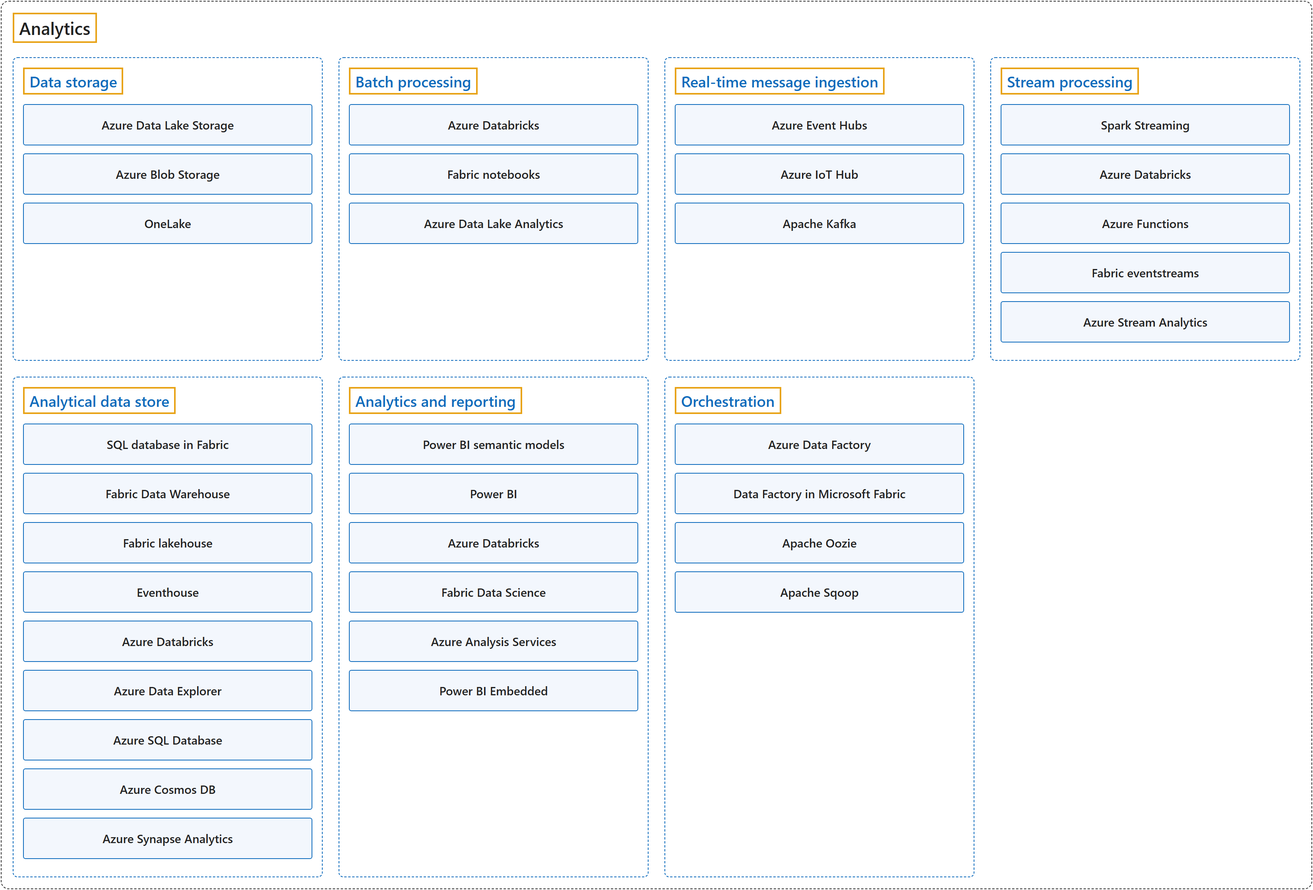
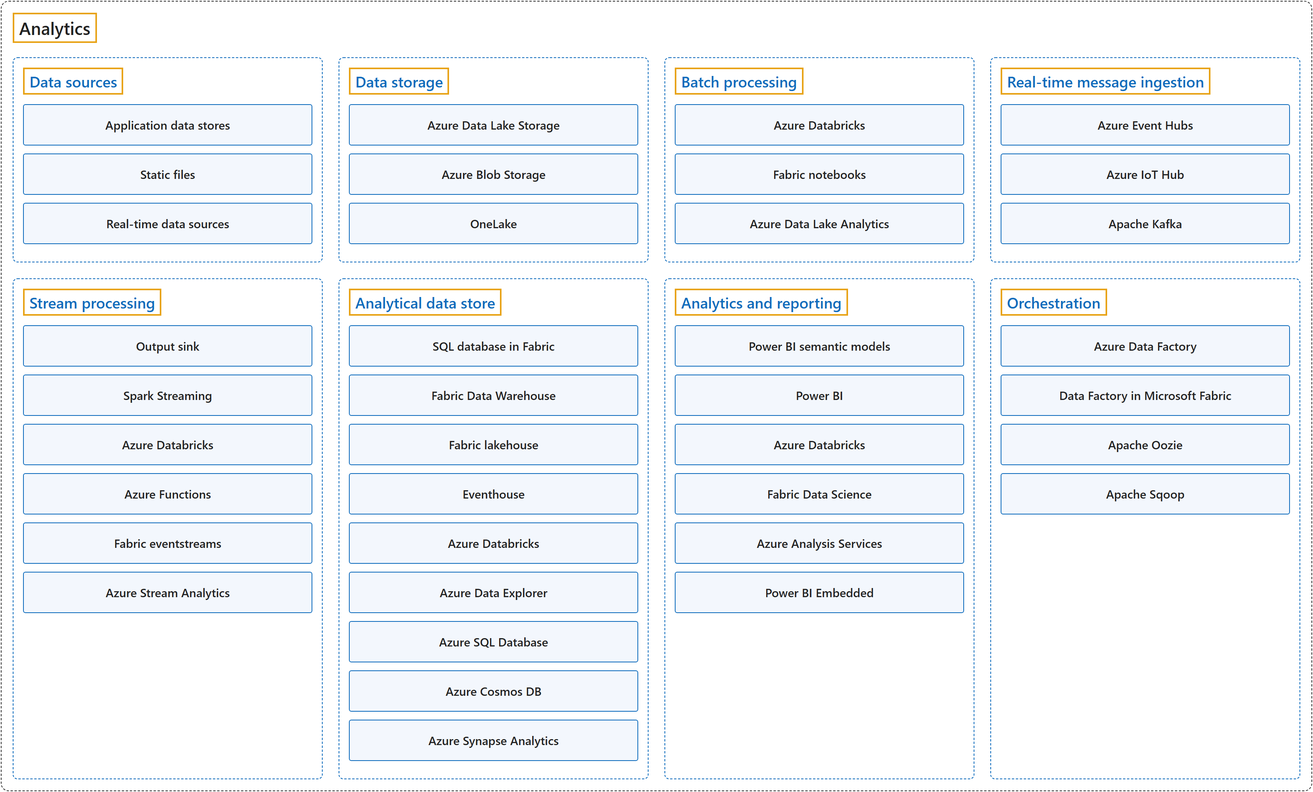
feat(cloud): CST8916 Week 10 Data Streaming; 10.4 Azure Event Hubs gets its core components (Producer applications, Namespace, Event hub / Kafka topic, Partitions, Consumer applications, Consumer group) and Capture; 11.1 Data sources added from Big data architectures list item 1 (Analytics renumbere

diff --git a/figures/cloud/azure/integration/events.html b/figures/cloud/azure/integration/events.html
@@ -5,21 +5,47 @@
   .frame { display: inline-block; margin: 2px; padding: 14px 14px 14px; border: 1.5px dashed #333; border-radius: 10px; }
   .title { display: inline-block; border: 2px solid #e8a317; padding: 2px 6px; font-size: 22px; font-weight: 600; color: #222; margin-bottom: 18px; }
   .row { display: flex; gap: 14px; align-items: stretch; }
-  .frame > .col { width: 330px; gap: 0; }
   .col { display: flex; flex-direction: column; gap: 14px; }
   .col .group { flex: 1 0 auto; }
-  .group { min-width: 330px; border: 1.5px dashed #0f6cbd; border-radius: 6px; padding: 12px; box-sizing: border-box; }
+  .group { width: 330px; border: 1.5px dashed #0f6cbd; border-radius: 6px; padding: 12px; box-sizing: border-box; }
   .group .title { white-space: nowrap; color: #0f6cbd; font-size: 19px; margin-bottom: 12px; }
   .item { border: 2px solid #e8a317; background: #f3f7fd; border-radius: 3px; height: 34px; margin-bottom: 8px;
           display: flex; align-items: center; justify-content: center; font-size: 14px; font-weight: 600; text-align: center; padding: 0 6px; color: #222; }
 </style></head>
 <body>
-<div class="frame" id="fig">
+<div class="frame" id="fig" style="position:relative;">
   <div class="title">Events</div>
-  <div class="col">
-    <div class="item">Azure Event Grid</div>
-    <div class="item">Azure Event Hubs</div>
-    <div class="item">Azure Web PubSub</div>
+  <div class="row" style="gap:70px;align-items:flex-start;">
+    <div class="col">
+      <div class="group" style="border:none;padding:0 12px 0 12px;">
+        <div class="item">Azure Event Grid</div>
+        <div class="item" id="f2">Azure Event Hubs</div>
+        <div class="item">Azure Web PubSub</div>
+      </div>
+    </div>
+    <div class="col">
+      <div class="group">
+        <div class="title" id="t2">Azure Event Hubs</div>
+        <div class="item">Producer applications</div>
+        <div class="item">Namespace</div>
+        <div class="item">Event hub / Kafka topic</div>
+        <div class="item">Partitions</div>
+        <div class="item">Consumer applications</div>
+        <div class="item">Consumer group</div>
+        <div class="item">Capture</div>
+      </div>
+    </div>
   </div>
+  <svg id="link" style="position:absolute;left:0;top:0;overflow:visible;pointer-events:none;"></svg>
 </div>
+<script>
+  const fig = document.getElementById('fig').getBoundingClientRect();
+  let p = '';
+  for (const [f, t] of [['f2','t2']]) {
+    const a = document.getElementById(f).getBoundingClientRect(), b = document.getElementById(t).getBoundingClientRect();
+    const x1 = a.right - fig.left, y1 = a.top + a.height / 2 - fig.top, x2 = b.left - fig.left, y2 = b.top + b.height / 2 - fig.top, mx = (x1 + x2) / 2;
+    p += `<path d="M${x1},${y1} C${mx},${y1} ${mx},${y2} ${x2},${y2}" fill="none" stroke="#0f6cbd" stroke-width="1.5" stroke-dasharray="5 4"/>`;
+  }
+  document.getElementById('link').innerHTML = p;
+</script>
 </body></html>

diff --git a/figures/cloud/azure/analytics/data-sources.html b/figures/cloud/azure/analytics/data-sources.html
@@ -1,0 +1,25 @@
+<!doctype html>
+<html><head><meta charset="utf-8">
+<style>
+  body { margin: 0; background: #fff; font-family: "Segoe UI", sans-serif; }
+  .frame { display: inline-block; margin: 2px; padding: 14px 14px 14px; border: 1.5px dashed #333; border-radius: 10px; }
+  .title { display: inline-block; border: 2px solid #e8a317; padding: 2px 6px; font-size: 22px; font-weight: 600; color: #222; margin-bottom: 18px; }
+  .row { display: flex; gap: 14px; align-items: stretch; }
+  .frame > .col { width: 330px; gap: 0; }
+  .col { display: flex; flex-direction: column; gap: 14px; }
+  .col .group { flex: 1 0 auto; }
+  .group { min-width: 330px; border: 1.5px dashed #0f6cbd; border-radius: 6px; padding: 12px; box-sizing: border-box; }
+  .group .title { white-space: nowrap; color: #0f6cbd; font-size: 19px; margin-bottom: 12px; }
+  .item { border: 2px solid #e8a317; background: #f3f7fd; border-radius: 3px; height: 34px; margin-bottom: 8px;
+          display: flex; align-items: center; justify-content: center; font-size: 14px; font-weight: 600; text-align: center; padding: 0 6px; color: #222; }
+</style></head>
+<body>
+<div class="frame" id="fig">
+  <div class="title">Data sources</div>
+  <div class="col">
+    <div class="item">Application data stores</div>
+    <div class="item">Static files</div>
+    <div class="item">Real-time data sources</div>
+  </div>
+</div>
+</body></html>

diff --git a/figures/cloud/azure/analytics/analytics.html b/figures/cloud/azure/analytics/analytics.html
@@ -19,6 +19,14 @@
   <div class="row">
     <div class="col">
       <div class="group">
+        <div class="title">Data sources</div>
+        <div class="item">Application data stores</div>
+        <div class="item">Static files</div>
+        <div class="item">Real-time data sources</div>
+      </div>
+    </div>
+    <div class="col">
+      <div class="group">
         <div class="title">Data storage</div>
         <div class="item">Azure Data Lake Storage</div>
         <div class="item">Azure Blob Storage</div>
@@ -41,9 +49,12 @@
         <div class="item">Apache Kafka</div>
       </div>
     </div>
+  </div>
+  <div class="row">
     <div class="col">
       <div class="group">
         <div class="title">Stream processing</div>
+        <div class="item">Output sink</div>
         <div class="item">Spark Streaming</div>
         <div class="item">Azure Databricks</div>
         <div class="item">Azure Functions</div>
@@ -51,8 +62,6 @@
         <div class="item">Azure Stream Analytics</div>
       </div>
     </div>
-  </div>
-  <div class="row">
     <div class="col">
       <div class="group">
         <div class="title">Analytical data store</div>

diff --git a/figures/cloud/azure/analytics/stream-processing.html b/figures/cloud/azure/analytics/stream-processing.html
@@ -17,6 +17,7 @@
 <div class="frame" id="fig">
   <div class="title">Stream processing</div>
   <div class="col">
+    <div class="item">Output sink</div>
     <div class="item">Spark Streaming</div>
     <div class="item">Azure Databricks</div>
     <div class="item">Azure Functions</div>

diff --git a/docs/cloud/azure/analytics/README.md b/docs/cloud/azure/analytics/README.md
@@ -6,14 +6,15 @@ Follows `../README.md`. Figure on `index.md`: classification (see `../README.md`
 
 | No. | File | Title (group name in the figure) | Sources | Allowed sections (the groups of the sub-page figure, in figure order) |
 |---|---|---|---|---|
-| 11.1 | `data-storage.md` | Data storage | [Big data architectures: Data storage](https://learn.microsoft.com/en-us/azure/architecture/databases/guide/big-data-architectures#components-of-a-big-data-architecture) | 11.1.1 Azure Data Lake Storage, 11.1.2 Azure Blob Storage, 11.1.3 OneLake |
-| 11.2 | `batch-processing.md` | Batch processing | [Big data architectures: Batch processing](https://learn.microsoft.com/en-us/azure/architecture/databases/guide/big-data-architectures#components-of-a-big-data-architecture); [Azure documentation: Analytics](https://learn.microsoft.com/en-us/azure/?product=analytics) | 11.2.1 Azure Databricks, 11.2.2 Fabric notebooks, 11.2.3 Azure Data Lake Analytics |
-| 11.3 | `real-time-message-ingestion.md` | Real-time message ingestion | [Big data architectures: Real-time message ingestion](https://learn.microsoft.com/en-us/azure/architecture/databases/guide/big-data-architectures#components-of-a-big-data-architecture) | 11.3.1 Azure Event Hubs, 11.3.2 Azure IoT Hub, 11.3.3 Apache Kafka |
-| 11.4 | `stream-processing.md` | Stream processing | [Big data architectures: Stream processing](https://learn.microsoft.com/en-us/azure/architecture/databases/guide/big-data-architectures#components-of-a-big-data-architecture); [Azure documentation: Analytics](https://learn.microsoft.com/en-us/azure/?product=analytics) | 11.4.1 Spark Streaming, 11.4.2 Azure Databricks, 11.4.3 Azure Functions, 11.4.4 Fabric eventstreams, 11.4.5 Azure Stream Analytics |
-| 11.5 | `analytical-data-store.md` | Analytical data store | [Big data architectures: Analytical data store](https://learn.microsoft.com/en-us/azure/architecture/databases/guide/big-data-architectures#components-of-a-big-data-architecture); [Azure documentation: Analytics](https://learn.microsoft.com/en-us/azure/?product=analytics) | 11.5.1 SQL database in Fabric, 11.5.2 Fabric Data Warehouse, 11.5.3 Fabric lakehouse, 11.5.4 Eventhouse, 11.5.5 Azure Databricks, 11.5.6 Azure Data Explorer, 11.5.7 Azure SQL Database, 11.5.8 Azure Cosmos DB, 11.5.9 Azure Synapse Analytics |
-| 11.6 | `analytics-and-reporting.md` | Analytics and reporting | [Big data architectures: Analytics and reporting](https://learn.microsoft.com/en-us/azure/architecture/databases/guide/big-data-architectures#components-of-a-big-data-architecture); [Azure documentation: Analytics](https://learn.microsoft.com/en-us/azure/?product=analytics) | 11.6.1 Power BI semantic models, 11.6.2 Power BI, 11.6.3 Azure Databricks, 11.6.4 Fabric Data Science, 11.6.5 Azure Analysis Services, 11.6.6 Power BI Embedded |
-| 11.7 | `orchestration.md` | Orchestration | [Big data architectures: Orchestration](https://learn.microsoft.com/en-us/azure/architecture/databases/guide/big-data-architectures#components-of-a-big-data-architecture) | 11.7.1 Azure Data Factory, 11.7.2 Data Factory in Microsoft Fabric, 11.7.3 Apache Oozie, 11.7.4 Apache Sqoop |
+| 11.1 | `data-sources.md` | Data sources | [Big data architectures: Data sources](https://learn.microsoft.com/en-us/azure/architecture/databases/guide/big-data-architectures#components-of-a-big-data-architecture) | 11.1.1 Application data stores, 11.1.2 Static files, 11.1.3 Real-time data sources |
+| 11.2 | `data-storage.md` | Data storage | [Big data architectures: Data storage](https://learn.microsoft.com/en-us/azure/architecture/databases/guide/big-data-architectures#components-of-a-big-data-architecture) | 11.2.1 Azure Data Lake Storage, 11.2.2 Azure Blob Storage, 11.2.3 OneLake |
+| 11.3 | `batch-processing.md` | Batch processing | [Big data architectures: Batch processing](https://learn.microsoft.com/en-us/azure/architecture/databases/guide/big-data-architectures#components-of-a-big-data-architecture); [Azure documentation: Analytics](https://learn.microsoft.com/en-us/azure/?product=analytics) | 11.3.1 Azure Databricks, 11.3.2 Fabric notebooks, 11.3.3 Azure Data Lake Analytics |
+| 11.4 | `real-time-message-ingestion.md` | Real-time message ingestion | [Big data architectures: Real-time message ingestion](https://learn.microsoft.com/en-us/azure/architecture/databases/guide/big-data-architectures#components-of-a-big-data-architecture) | 11.4.1 Azure Event Hubs, 11.4.2 Azure IoT Hub, 11.4.3 Apache Kafka |
+| 11.5 | `stream-processing.md` | Stream processing | [Big data architectures: Stream processing](https://learn.microsoft.com/en-us/azure/architecture/databases/guide/big-data-architectures#components-of-a-big-data-architecture); [Azure documentation: Analytics](https://learn.microsoft.com/en-us/azure/?product=analytics) | 11.5.1 Spark Streaming, 11.5.2 Azure Databricks, 11.5.3 Azure Functions, 11.5.4 Fabric eventstreams, 11.5.5 Azure Stream Analytics |
+| 11.6 | `analytical-data-store.md` | Analytical data store | [Big data architectures: Analytical data store](https://learn.microsoft.com/en-us/azure/architecture/databases/guide/big-data-architectures#components-of-a-big-data-architecture); [Azure documentation: Analytics](https://learn.microsoft.com/en-us/azure/?product=analytics) | 11.6.1 SQL database in Fabric, 11.6.2 Fabric Data Warehouse, 11.6.3 Fabric lakehouse, 11.6.4 Eventhouse, 11.6.5 Azure Databricks, 11.6.6 Azure Data Explorer, 11.6.7 Azure SQL Database, 11.6.8 Azure Cosmos DB, 11.6.9 Azure Synapse Analytics |
+| 11.7 | `analytics-and-reporting.md` | Analytics and reporting | [Big data architectures: Analytics and reporting](https://learn.microsoft.com/en-us/azure/architecture/databases/guide/big-data-architectures#components-of-a-big-data-architecture); [Azure documentation: Analytics](https://learn.microsoft.com/en-us/azure/?product=analytics) | 11.7.1 Power BI semantic models, 11.7.2 Power BI, 11.7.3 Azure Databricks, 11.7.4 Fabric Data Science, 11.7.5 Azure Analysis Services, 11.7.6 Power BI Embedded |
+| 11.8 | `orchestration.md` | Orchestration | [Big data architectures: Orchestration](https://learn.microsoft.com/en-us/azure/architecture/databases/guide/big-data-architectures#components-of-a-big-data-architecture) | 11.8.1 Azure Data Factory, 11.8.2 Data Factory in Microsoft Fabric, 11.8.3 Apache Oozie, 11.8.4 Apache Sqoop |
 
-Boxes follow the options that the current Big data architectures guide names for each component (checked 2026-10-27); each row quotes the product's own overview. A service named under several components (Azure Databricks) has a full row in each. Lambda, Kappa and Lakehouse architectures, from the same guide, are architecture figures on 11.4 and 11.5.
+Boxes follow the options that the current Big data architectures guide names for each component (checked 2026-10-27); each row quotes the product's own overview. A service named under several components (Azure Databricks) has a full row in each. Lambda, Kappa and Lakehouse architectures, from the same guide, are architecture figures on 11.5 and 11.6.
 
-Products of the Analytics category that the guide does not name are placed by their own overviews, after the guide's options: Azure Data Lake Analytics (an "analytics job service", retired 29 February 2024) in 11.2, Azure Stream Analytics in 11.4, Azure Synapse Analytics in 11.5, Azure Analysis Services and Power BI Embedded in 11.6. Azure Data Share (data sharing) fits none of the components, and Azure Chaos Studio (resilience testing) belongs with reliability, not analytics.
+Products of the Analytics category that the guide does not name are placed by their own overviews, after the guide's options: Azure Data Lake Analytics (an "analytics job service", retired 29 February 2024) in 11.3, Azure Stream Analytics in 11.5, Azure Synapse Analytics in 11.6, Azure Analysis Services and Power BI Embedded in 11.7. Azure Data Share (data sharing) fits none of the components, and Azure Chaos Studio (resilience testing) belongs with reliability, not analytics.

diff --git a/docs/cloud/azure/integration/events.md b/docs/cloud/azure/integration/events.md
@@ -1,14 +1,14 @@
 ---
 title: "10.4 Events"
 description: "Microsoft Azure, 10.4 Events: Azure Event Grid, Azure Event Hubs, Azure Web PubSub."
-ms.date: 2026-10-27
+ms.date: 2026-11-13
 ---
 
 # 10.4 Events
 
 ## Classification
 
-![Events, 3 services, each defined in its own overview: Azure Event Grid, Azure Event Hubs, Azure Web PubSub.](media/events.png)
+![Events, 3 services, each defined in its own overview: Azure Event Grid, Azure Event Hubs, Azure Web PubSub; Azure Event Hubs expands into its core components (Producer applications, Namespace, Event hub / Kafka topic, Partitions, Consumer applications, Consumer group) and Capture.](media/events.png)
 
 ## Glossary
 
@@ -16,6 +16,13 @@ ms.date: 2026-10-27
 |---|---|---|---|
 | **Azure Event Grid**<br>Azure 事件网格 | "Azure Event Grid is a **highly scalable and fully managed publish-subscribe service** for **message distribution**." | Azure 事件网格是一种**高度可扩展、完全托管的发布-订阅服务**，用于**消息分发**。 | [Microsoft, 2026a, para. 1](https://learn.microsoft.com/en-us/azure/event-grid/overview#:~:text=is%20a%20highly%20scalable%20and%20fully%20managed%20publish-subscribe%20service) |
 | **Azure Event Hubs**<br>Azure 事件中心 | "Azure Event Hubs is a **fully managed, real-time data streaming platform** that can **ingest millions of events per second** with low latency." | Azure 事件中心是一个**完全托管的实时数据流式处理平台**，能够以低延迟**每秒引入数百万个事件**。 | [Microsoft, 2026b, para. 1](https://learn.microsoft.com/en-us/azure/event-hubs/event-hubs-about#:~:text=is%20a%20fully%20managed%2C%20real-time%20data%20streaming%20platform) |
+| **Producer applications**<br>生产者应用程序 | "Applications that **send events to Event Hubs** using **Event Hubs SDKs, Kafka producer clients, or HTTPS**" | **向事件中心发送事件**的应用程序，使用**事件中心 SDK、Kafka 生产者客户端或 HTTPS** | [Microsoft, 2026b, "How it works", Core components table, row 1](https://learn.microsoft.com/en-us/azure/event-hubs/event-hubs-about#:~:text=Applications%20that%20send%20events%20to%20Event%20Hubs) |
+| **Namespace**<br>命名空间 | "**Management container** for one or more event hubs. Handles **streaming capacity, network security, and geo-disaster recovery** at the namespace level" | 一个或多个事件中心的**管理容器**。在命名空间级别处理**流式处理容量、网络安全和异地灾难恢复** | [Microsoft, 2026b, "How it works", Core components table, row 2](https://learn.microsoft.com/en-us/azure/event-hubs/event-hubs-about#:~:text=Management%20container%20for%20one%20or%20more%20event%20hubs) |
+| **Event hub / Kafka topic**<br>事件中心 / Kafka 主题 | "An **append-only distributed log** that organizes events. Contains **one or more partitions** for parallel processing" | 一个组织事件的**只追加分布式日志**。包含**一个或多个分区**，用于并行处理 | [Microsoft, 2026b, "How it works", Core components table, row 3](https://learn.microsoft.com/en-us/azure/event-hubs/event-hubs-about#:~:text=An%20append-only%20distributed%20log%20that%20organizes%20events) |
+| **Partitions**<br>分区 | "**Ordered sequences of events** used to **scale throughput**. Think of partitions as lanes on a freeway—more partitions enable higher throughput" | **有序的事件序列**，用于**扩展吞吐量**。可以把分区看作高速公路上的车道：分区越多，吞吐量越高 | [Microsoft, 2026b, "How it works", Core components table, row 4](https://learn.microsoft.com/en-us/azure/event-hubs/event-hubs-about#:~:text=Ordered%20sequences%20of%20events%20used%20to%20scale%20throughput) |
+| **Consumer applications**<br>使用者应用程序 | "Applications that **read events** by **tracking their position (offset)** in each partition. Can use Event Hubs SDKs or Kafka consumer clients" | **读取事件**的应用程序，方式是**跟踪自己在每个分区中的位置**（偏移量）。可以使用事件中心 SDK 或 Kafka 使用者客户端 | [Microsoft, 2026b, "How it works", Core components table, row 5](https://learn.microsoft.com/en-us/azure/event-hubs/event-hubs-about#:~:text=Applications%20that%20read%20events%20by%20tracking%20their%20position) |
+| **Consumer group**<br>使用者组 | "A **logical view of the event hub** that enables multiple consumer applications to **read the same stream independently**, each maintaining its own position" | 事件中心的一个**逻辑视图**，让多个使用者应用程序**各自独立地读取同一个流**，每个应用程序维护自己的位置 | [Microsoft, 2026b, "How it works", Core components table, row 6](https://learn.microsoft.com/en-us/azure/event-hubs/event-hubs-about#:~:text=A%20logical%20view%20of%20the%20event%20hub) |
+| **Capture**<br>捕获 | (context) "Capture your streaming data **in near real time** to **Azure Blob Storage or Azure Data Lake Storage** for long-term retention or batch analytics." | （语境）将流式数据**近实时地**捕获到 **Azure Blob 存储或 Azure Data Lake Storage**，用于长期保留或批量分析。 | [Microsoft, 2026b, "Key capabilities", "Capture", para. 1](https://learn.microsoft.com/en-us/azure/event-hubs/event-hubs-about#:~:text=your%20streaming%20data%20in%20near%20real%20time) |
 | **Azure Web PubSub**<br>Azure Web PubSub | "Azure Web PubSub is a **fully managed service** for **building applications that deliver updates in real time**." | Azure Web PubSub 是一种**完全托管的服务**，用于**构建实时推送更新的应用程序**。 | [Microsoft, 2026c, para. 1](https://learn.microsoft.com/en-us/azure/azure-web-pubsub/overview#:~:text=is%20a%20fully%20managed%20service%20for%20building%20applications%20that%20deliver%20updates) |
 
 ## References

diff --git a/docs/cloud/azure/analytics/stream-processing.md b/docs/cloud/azure/analytics/stream-processing.md
@@ -1,19 +1,20 @@
 ---
-title: "11.4 Stream Processing"
-description: "Microsoft Azure, 11.4 Stream processing: Spark Streaming, Azure Databricks, Azure Functions, Fabric eventstreams, Azure Stream Analytics."
-ms.date: 2026-10-27
+title: "11.5 Stream Processing"
+description: "Microsoft Azure, 11.5 Stream processing: output sink, Spark Streaming, Azure Databricks, Azure Functions, Fabric eventstreams, Azure Stream Analytics."
+ms.date: 2026-11-13
 ---
 
-# 11.4 Stream Processing
+# 11.5 Stream Processing
 
 ## Classification
 
-![Stream processing, the 4 options that Big data architectures names for this component, in its order: Spark Streaming, Azure Databricks, Azure Functions, Fabric eventstreams; then Azure Stream Analytics, placed here by their own overviews.](media/stream-processing.png)
+![Stream processing, the output sink that the processed stream data is written to, then the 4 options that Big data architectures names for this component, in its order: Spark Streaming, Azure Databricks, Azure Functions, Fabric eventstreams; then Azure Stream Analytics, placed here by their own overviews.](media/stream-processing.png)
 
 ## Glossary
 
 | Term | Definition | 中文翻译 | Source |
 |---|---|---|---|
+| **Output sink**<br>输出接收器 | (context) "The **processed stream data** is then written to an **output sink**." | （语境）**处理后的流数据**随后写入一个**输出接收器**。 | [Microsoft, 2025, "Components of a big data architecture" section, list item 5](https://learn.microsoft.com/en-us/azure/architecture/databases/guide/big-data-architectures#:~:text=The%20processed%20stream%20data%20is%20then%20written%20to%20an%20output%20sink) |
 | **Spark Streaming**<br>Spark Streaming | "Spark Streaming is an **extension of the core Spark API** that enables **scalable, high-throughput, fault-tolerant stream processing of live data streams**." | Spark Streaming 是**核心 Spark API 的扩展**，能够对**实时数据流进行可扩展、高吞吐量、容错的流处理**。 | [Apache Software Foundation, n.d., "Overview" section, para. 2](https://spark.apache.org/docs/latest/streaming-programming-guide.html#:~:text=is%20an%20extension%20of%20the%20core%20Spark%20API) |
 | **Azure Databricks**<br>Azure Databricks | "Azure Databricks is a **unified, open analytics platform** for **building, deploying, sharing, and maintaining enterprise-grade data, analytics, and AI solutions at scale**." | Azure Databricks 是一个**统一、开放的分析平台**，用于**大规模构建、部署、共享和维护企业级数据、分析和 AI 解决方案**。 | [Microsoft, 2026c, para. 1](https://learn.microsoft.com/en-us/azure/databricks/introduction/#:~:text=is%20a%20unified%2C%20open%20analytics%20platform) |
 | **Azure Functions**<br>Azure Functions | "Azure Functions is a **serverless solution** that allows you to **build robust apps while using less code**, and with less infrastructure and lower costs." | Azure Functions 是一种**无服务器解决方案**，让你可以**用更少的代码构建可靠的应用**，同时使用更少的基础结构，成本也更低。 | [Microsoft, 2026d, para. 1](https://learn.microsoft.com/en-us/azure/azure-functions/functions-overview#:~:text=is%20a%20serverless%20solution%20that%20allows%20you%20to%20build%20robust%20apps) |
@@ -23,6 +24,7 @@ ms.date: 2026-10-27
 ## References
 
 - Apache Software Foundation. (n.d.). *Spark Streaming programming guide*. Apache Spark documentation. Retrieved October 27, 2026, from. https://spark.apache.org/docs/latest/streaming-programming-guide.html
+- Microsoft. (2025). *Big data architectures*. Azure Architecture Center. https://learn.microsoft.com/en-us/azure/architecture/databases/guide/big-data-architectures
 - Microsoft. (2026a, September 2). *Overview of Microsoft Fabric eventstreams*. Microsoft Learn. https://learn.microsoft.com/en-us/fabric/real-time-intelligence/event-streams/overview
 - Microsoft. (2026b, February 6). *Welcome to Azure Stream Analytics*. Microsoft Learn. https://learn.microsoft.com/en-us/azure/stream-analytics/stream-analytics-introduction
 - Microsoft. (2026c, September 11). *What is Azure Databricks?* Microsoft Learn. https://learn.microsoft.com/en-us/azure/databricks/introduction/

diff --git a/docs/cloud/azure/analytics/index.md b/docs/cloud/azure/analytics/index.md
@@ -1,20 +1,21 @@
 ---
 title: "11. Analytics"
-description: "Microsoft Azure, 11. Analytics: data storage, batch processing, real-time message ingestion, stream processing, analytical data store, analytics and reporting, and orchestration."
-ms.date: 2026-10-24
+description: "Microsoft Azure, 11. Analytics: data sources, data storage, batch processing, real-time message ingestion, stream processing, analytical data store, analytics and reporting, and orchestration."
+ms.date: 2026-11-13
 ---
 
 # 11. Analytics
 
 ## Classification
 
-![Analytics sorted into the seven components of a big data architecture, in the order the data flows through them, with the Azure services for each.](media/analytics.png)
+![Analytics sorted into the eight components of a big data architecture, in the order the data flows through them, with the Azure services for each.](media/analytics.png)
 
 ## Glossary
 
 | Term | Definition | 中文翻译 | Source |
 |---|---|---|---|
 | **Analytics**<br>分析 | "**Big data analytics** refers to the **methods, tools, and applications** used to **collect, process, and derive insights** from varied, high-volume, high-velocity data sets." | **大数据分析**是指用来从多样、大量、高速的数据集中**收集、处理并获得洞察**的**方法、工具和应用程序**。 | [Microsoft, n.d., "What is big data analytics?" section, para. 1](https://azure.microsoft.com/en-us/resources/cloud-computing-dictionary/what-is-big-data-analytics#:~:text=Big%20data%20analytics%20refers%20to%20the%20methods) |
+| **[Data sources](data-sources.md)**<br>数据源 | "All **big data solutions** start with **one or more data sources**." | 所有**大数据解决方案**都从**一个或多个数据源**开始。 | [Microsoft, 2025, "Components of a big data architecture" section, list item 1](https://learn.microsoft.com/en-us/azure/architecture/databases/guide/big-data-architectures#:~:text=All%20big%20data%20solutions%20start%20with%20one%20or%20more%20data%20sources) |
 | **[Data storage](data-storage.md)**<br>数据存储 | "Data for **batch processing** operations is typically stored in a **distributed file store** that can hold **high volumes of large files** in various formats." | 用于**批处理**的数据通常存放在**分布式文件存储**中，它可以容纳各种格式的**大量大文件**。 | [Microsoft, 2025, "Components of a big data architecture" section, list item 2](https://learn.microsoft.com/en-us/azure/architecture/databases/guide/big-data-architectures#:~:text=Data%20for%20batch%20processing%20operations%20is%20typically%20stored) |
 | **[Batch processing](batch-processing.md)**<br>批处理 | "The datasets are large, so a big data solution often processes data files by using **long-running batch jobs** to **filter, aggregate, and otherwise prepare data** for analysis." | 数据集很大，所以大数据解决方案通常用**长时间运行的批处理作业**来处理数据文件，对数据进行**筛选、聚合等准备**，以供分析。 | [Microsoft, 2025, "Components of a big data architecture" section, list item 3](https://learn.microsoft.com/en-us/azure/architecture/databases/guide/big-data-architectures#:~:text=The%20datasets%20are%20large%2C%20so%20a%20big%20data%20solution) |
 | **[Real-time message ingestion](real-time-message-ingestion.md)**<br>实时消息引入 | "If the solution includes **real-time sources**, the architecture must **capture and store real-time messages** for **stream processing**." | 如果解决方案包含**实时数据源**，架构就必须**捕获并存储实时消息**，供**流处理**使用。 | [Microsoft, 2025, "Components of a big data architecture" section, list item 4](https://learn.microsoft.com/en-us/azure/architecture/databases/guide/big-data-architectures#:~:text=If%20the%20solution%20includes%20real-time%20sources) |

diff --git a/docs/cloud/azure/analytics/data-sources.md b/docs/cloud/azure/analytics/data-sources.md
@@ -1,0 +1,23 @@
+---
+title: "11.1 Data Sources"
+description: "Microsoft Azure, 11.1 Data sources: application data stores, static files, real-time data sources."
+ms.date: 2026-11-13
+---
+
+# 11.1 Data Sources
+
+## Classification
+
+![Data sources, the 3 examples that Big data architectures gives for this component, in its order: Application data stores, Static files, Real-time data sources.](media/data-sources.png)
+
+## Glossary
+
+| Term | Definition | 中文翻译 | Source |
+|---|---|---|---|
+| **Application data stores**<br>应用程序数据存储 | (context) "**Application data stores**, such as **relational databases**." | （语境）**应用程序数据存储**，例如**关系数据库**。 | [Microsoft, 2025, "Components of a big data architecture" section, list item 1](https://learn.microsoft.com/en-us/azure/architecture/databases/guide/big-data-architectures#:~:text=Application%20data%20stores%2C%20such%20as%20relational%20databases) |
+| **Static files**<br>静态文件 | (context) "**Static files that applications produce**, such as **web server log files**." | （语境）**应用程序生成的静态文件**，例如 **Web 服务器日志文件**。 | [Microsoft, 2025, "Components of a big data architecture" section, list item 1](https://learn.microsoft.com/en-us/azure/architecture/databases/guide/big-data-architectures#:~:text=Static%20files%20that%20applications%20produce) |
+| **Real-time data sources**<br>实时数据源 | (context) "**Real-time data sources**, such as **Internet of Things (IoT) devices**." | （语境）**实时数据源**，例如**物联网（IoT）设备**。 | [Microsoft, 2025, "Components of a big data architecture" section, list item 1](https://learn.microsoft.com/en-us/azure/architecture/databases/guide/big-data-architectures#:~:text=Real-time%20data%20sources%2C%20such%20as%20Internet%20of%20Things) |
+
+## References
+
+- Microsoft. (2025). *Big data architectures*. Azure Architecture Center. https://learn.microsoft.com/en-us/azure/architecture/databases/guide/big-data-architectures

diff --git a/docs/cloud/azure/analytics/analytical-data-store.md b/docs/cloud/azure/analytics/analytical-data-store.md
@@ -1,10 +1,10 @@
 ---
-title: "11.5 Analytical Data Store"
-description: "Microsoft Azure, 11.5 Analytical data store: SQL database in Fabric, Fabric Data Warehouse, Fabric lakehouse, Eventhouse, Azure Databricks, Azure Data Explorer, Azure SQL Database, Azure Cosmos DB, Azure Synapse Analytics."
+title: "11.6 Analytical Data Store"
+description: "Microsoft Azure, 11.6 Analytical data store: SQL database in Fabric, Fabric Data Warehouse, Fabric lakehouse, Eventhouse, Azure Databricks, Azure Data Explorer, Azure SQL Database, Azure Cosmos DB, Azure Synapse Analytics."
 ms.date: 2026-10-27
 ---
 
-# 11.5 Analytical Data Store
+# 11.6 Analytical Data Store
 
 ## Classification
 

diff --git a/docs/cloud/azure/analytics/analytics-and-reporting.md b/docs/cloud/azure/analytics/analytics-and-reporting.md
@@ -1,10 +1,10 @@
 ---
-title: "11.6 Analytics and Reporting"
-description: "Microsoft Azure, 11.6 Analytics and reporting: Power BI semantic models, Power BI, Azure Databricks, Fabric Data Science, Azure Analysis Services, Power BI Embedded."
+title: "11.7 Analytics and Reporting"
+description: "Microsoft Azure, 11.7 Analytics and reporting: Power BI semantic models, Power BI, Azure Databricks, Fabric Data Science, Azure Analysis Services, Power BI Embedded."
 ms.date: 2026-10-27
 ---
 
-# 11.6 Analytics and Reporting
+# 11.7 Analytics and Reporting
 
 ## Classification
 

diff --git a/docs/cloud/azure/analytics/real-time-message-ingestion.md b/docs/cloud/azure/analytics/real-time-message-ingestion.md
@@ -1,10 +1,10 @@
 ---
-title: "11.3 Real-Time Message Ingestion"
-description: "Microsoft Azure, 11.3 Real-time message ingestion: Azure Event Hubs, Azure IoT Hub, Apache Kafka."
+title: "11.4 Real-Time Message Ingestion"
+description: "Microsoft Azure, 11.4 Real-time message ingestion: Azure Event Hubs, Azure IoT Hub, Apache Kafka."
 ms.date: 2026-10-27
 ---
 
-# 11.3 Real-Time Message Ingestion
+# 11.4 Real-Time Message Ingestion
 
 ## Classification
 
